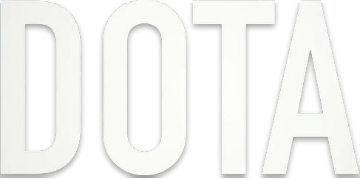
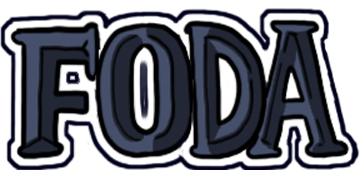
0.9.9
FODA

diff --git a/client/index.html b/client/index.html
@@ -1,7 +1,7 @@
 <!DOCTYPE html>
 <html>
   <head>
-    <title>DotaCard</title>
+    <title>FODA</title>
     <meta name="author" content="rafaelcastrocouto"/>
     <meta name="viewport" content="user-scalable=no">
     <meta name="apple-mobile-web-app-capable" content="yes">
@@ -9,12 +9,12 @@
     <meta http-equiv="content-type" content="text/html; charset=UTF-8"/>
     <meta http-equiv="content-script-type" content="text/javascript"/>
     <meta http-equiv="content-style-type" content="text/css"/>
-    <meta property="og:title" content="DotaCard"/>
+    <meta property="og:title" content="FODA"/>
     <meta property="og:type" content="website"/>
     <meta property="og:url" content="https://dotacard.ga"/>
     <meta property="og:description" content="Play now for free!"/>
     <meta property="og:image" content="http://rafaelcastrocouto.github.io/dotacard/client/img/banner.jpg"/>
-    <meta name="twitter:title" content="DotaCard"/>
+    <meta name="twitter:title" content="FODA"/>
     <meta name="twitter:card" content="summary_large_image"/>
     <meta name="twitter:description" content="Play now for free!"/>
     <meta name="twitter:image" content="http://rafaelcastrocouto.github.io/dotacard/client/img/banner.jpg"/>
@@ -30,10 +30,10 @@
         <noscript class="state">
           <div class="box">
             <div class="logo slide">
-              <img class="h1" alt="DOTA" src="img/title.png"/>
-              <img class="h2" alt="CARD" src="img/subtitle.png"/>
+              <img class="h1" alt="FODA" src="img/title.png"/>
+              <!--img class="h2" alt="CARD" src="img/subtitle.png"/-->
             </div>
-            <h2>DotaCard requires <i>JavaScript</i></h2>
+            <h2>FODA requires <i>JavaScript</i></h2>
             <p><a href="http://www.enable-javascript.com/" target="_blank">How can I turn on <i>JavaScript?</i></a></p>
           </div>
         </noscript>

diff --git a/client/css/game.css b/client/css/game.css
@@ -175,19 +175,19 @@ noscript {
 .log .h1 {
   z-index: 10;
   position: absolute;
-  top: 50%;
+  top: 55%;
   left: 50%;
   animation: logoslideup 0.8s 1;
-  transform: translate(-50%, -105%);
+  transform: translate(-50%, -100%);
 }
 
 @keyframes logoslideup {
   0% {
-    transform: translate(-50%, -80%);
+    transform: translate(-50%, -75%);
   }
 
   100% {
-    transform: translate(-50%, -105%);
+    transform: translate(-50%, -100%);
   }
 }
 
@@ -220,7 +220,7 @@ noscript {
 
 .loading .box {
   width: 230px;
-  top: 92%;
+  top: 65%;
   padding: 0;
 }
 
@@ -418,8 +418,8 @@ label span {
 }
 
 .log .box {
-  padding: 360px 110px 30px;
-  width: 590px;
+  padding: 250px 100px 40px;
+  width: 550px;
 }
 
 .log form {
@@ -435,8 +435,8 @@ label span {
 
 .log .steel {
   position: absolute;
-  bottom: 64px;
-  right: 145px;
+  bottom: 75px;
+  right: 124px;
   width: 100px;
   height: 42px;
   background: url("/img/bkg/steel.jpg");

diff --git a/client/js/states/log.js b/client/js/states/log.js
@@ -4,7 +4,7 @@ game.states.log = {
     this.box = $('<div>').addClass('box');
     this.logo = $('<div>').appendTo(this.el).addClass('logo slide');
     this.title = $('<img>').attr({alt: 'DOTA', src: 'img/title.png'}).addClass('h1');
-    this.subtitle = $('<img>').appendTo(this.logo).attr({alt: 'CARD', src: 'img/subtitle.png'}).addClass('h2');
+    //this.subtitle = $('<img>').appendTo(this.logo).attr({alt: 'CARD', src: 'img/subtitle.png'}).addClass('h2');
     this.boxtitle = $('<h1>').appendTo(this.box).text(game.data.ui.choosename);
     this.form = $('<form>').appendTo(this.box).on('submit', function (event) { event.preventDefault(); return false; });
     this.input = $('<input>').appendTo(this.form).attr({placeholder: game.data.ui.logtype, type: 'text', required: 'required', minlength: 3, maxlength: 24, tabindex: 1}).keydown(function (event) { if (event.which === 13) { game.states.log.login(); } });

diff --git a/client/debug.html b/client/debug.html
@@ -1,7 +1,7 @@
 <!DOCTYPE html>
 <html>
   <head>
-    <title>DotaCard Debug</title>
+    <title>FODA Debug</title>
     <meta name="author" content="rafaelcastrocouto"/>
     <meta name="viewport" content="user-scalable=no">
     <meta name="apple-mobile-web-app-capable" content="yes">
@@ -40,7 +40,7 @@
               <img class="h1" alt="DOTA" src="img/title.png"/>
               <img class="h2" alt="CARD" src="img/subtitle.png"/>
             </div>
-            <h2>DotaCard requires <i>JavaScript</i></h2>
+            <h2>FODA requires <i>JavaScript</i></h2>
             <p><a href="http://www.enable-javascript.com/" target="_blank">How can I turn on <i>JavaScript?</i></a></p>
           </div>
         </noscript>

diff --git a/client/404.html b/client/404.html
@@ -1,7 +1,7 @@
-<!DOCTYPE html>
+<!DOCTYPE html>
 <html>
   <head>
-    <title>DotaCard - Error 404</title>
+    <title>FODA - Error 404</title>
     <meta name="Author" content="rafaelcastrocouto"/>
     <meta http-equiv="content-type" content="text/html; charset=UTF-8"/>
     <meta http-equiv="content-script-type" content="text/javascript"/>
